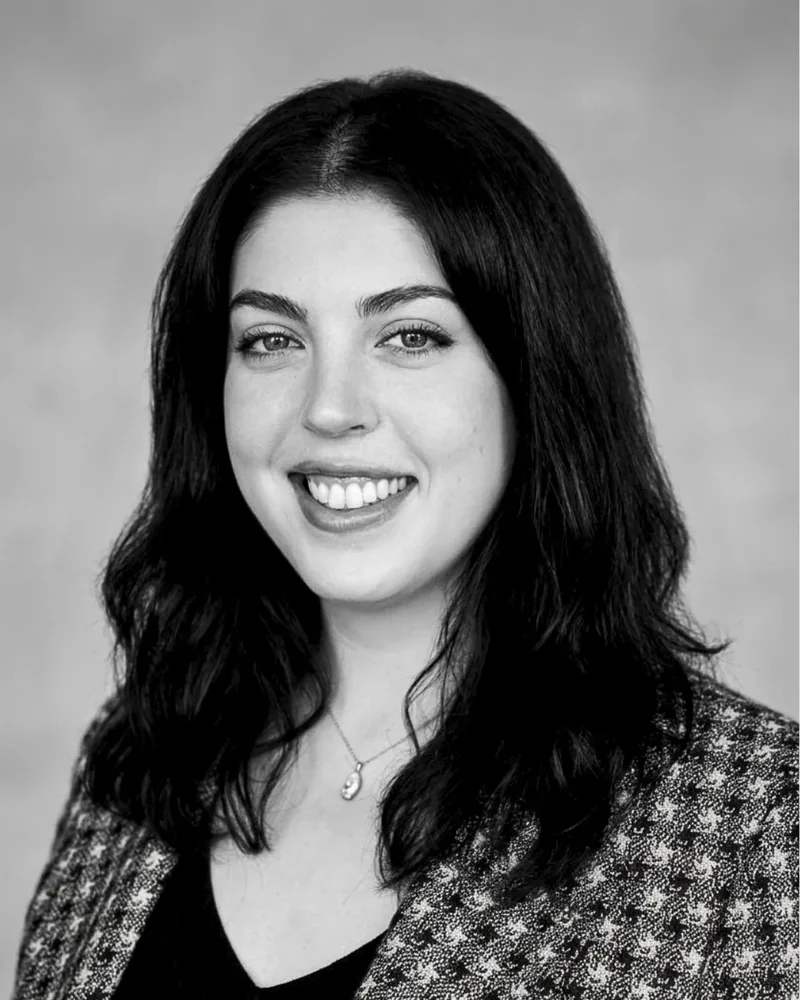
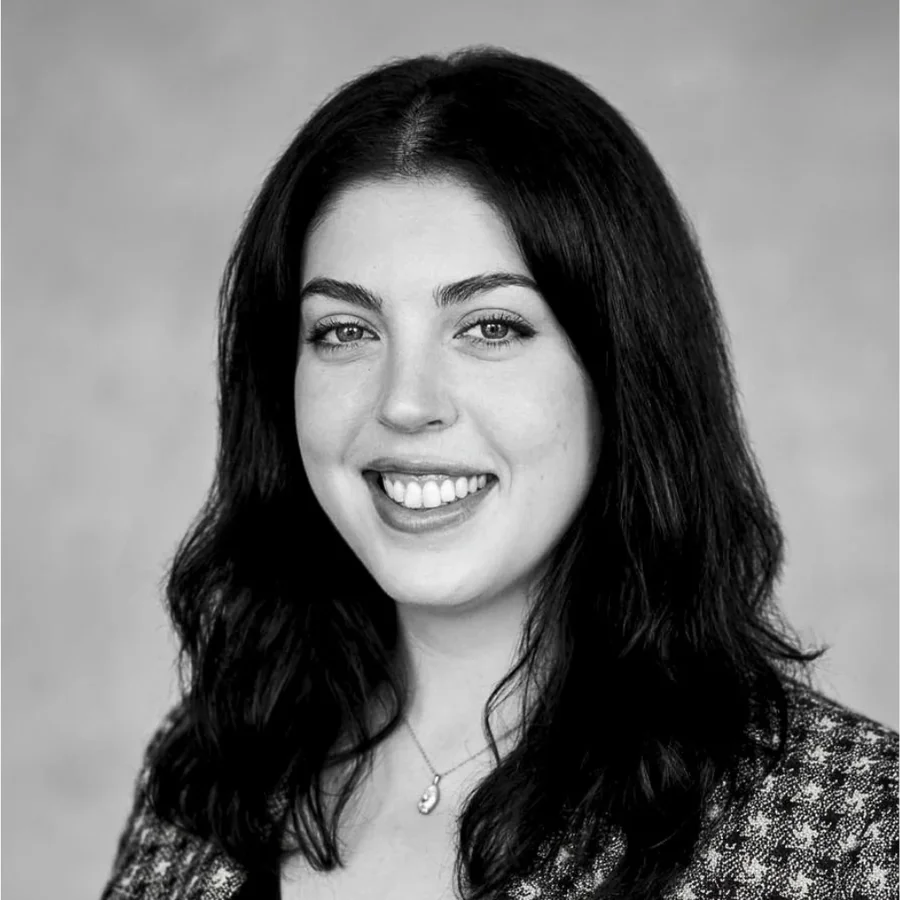
Headshot: uncropped original, white edge trimmed, square hero crop framed on the face

diff --git a/styles.css b/styles.css
@@ -436,7 +436,7 @@ body {
 /* the About photo keeps its own proportions (1815 x 2542), uncropped */
 .op-about-photo { aspect-ratio: 1815 / 2542; min-height: 0; align-self: start; }
 .op-headshot { aspect-ratio: 1 / 1; min-height: 0; align-self: start; }
-.op-headshot img { object-position: 50% 30%; }
+.op-headshot img { object-position: 50% 50%; }
 
 /* section heads: more air under the rule */
 .op-section { scroll-margin-top: 88px; display: flex; flex-direction: column; gap: clamp(36px, 4vw, 56px); }
